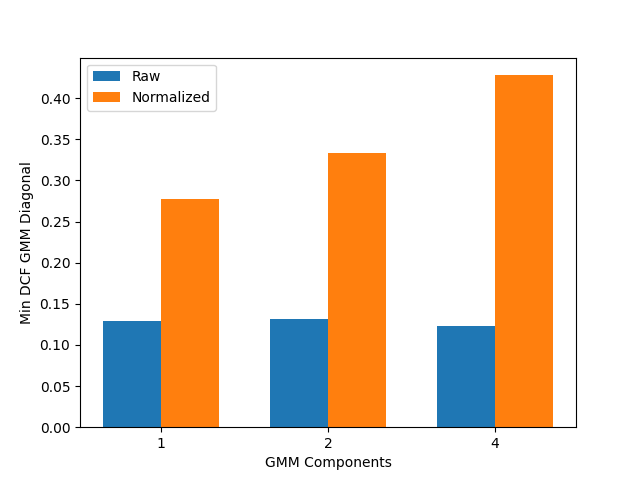
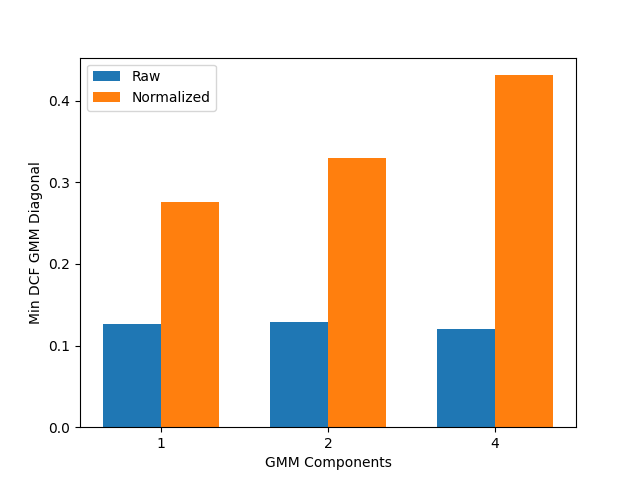
Commit

diff --git a/models/SVM.py b/models/SVM.py
@@ -330,8 +330,8 @@ class SVMPoly(object):
                         if(pi_tilde == 0.1):
                             normalized01.append(minDCF)
 
-        norm_plot_file = f"data/Plots/SVMLinear_{Best_K}_{Best_d}_{Best_c}_Norm.png"
-        raw_plot_file = f"data/Plots/SVMLinear_{Best_K}_{Best_d}_{Best_c}_Raw.png"
+        norm_plot_file = f"data/Plots/SVMPoly_{Best_K}_{Best_d}_{Best_c}_Norm.png"
+        raw_plot_file = f"data/Plots/SVMPoly_{Best_K}_{Best_d}_{Best_c}_Raw.png"
                             
         plt.plotTwoDCFs(self.C_Set, raw05, raw01, "C", "Raw", raw_plot_file, flag=flag)
         plt.plotTwoDCFs(self.C_Set, normalized05, normalized01, "C", "Normalized", norm_plot_file, flag=flag)
@@ -538,8 +538,8 @@ class SVMRBF(object):
                         if(gamma == self.gamma_Set[2]):
                             normalized_gamma_2.append(minDCF)
 
-        norm_plot_file = f"data/Plots/SVMLinear_{Best_K}_{Best_C}_Norm.png"
-        raw_plot_file = f"data/Plots/SVMLinear_{Best_K}_{Best_C}_Raw.png"
+        norm_plot_file = f"data/Plots/SVMRBF_{Best_K}_Norm.png"
+        raw_plot_file = f"data/Plots/SVMRBF_{Best_K}_Raw.png"
 
         plt.plotThreeDCFsRBF(self.C_Set, raw_gamma_0, raw_gamma_1, raw_gamma_2, "C", "Raw", raw_plot_file, flag=flag)
         plt.plotThreeDCFsRBF(self.C_Set, normalized_gamma_0, normalized_gamma_1, normalized_gamma_2, "C", "Normalized", norm_plot_file, flag=flag)

diff --git a/main.py b/main.py
@@ -64,27 +64,31 @@ svm_rbf = SVMRBF(D, L, [1], [1], [1e-1])
 #svm_rbf.plot()
 
 
-n_Set = [1,2,4,8,16]
-gmm_full = GMMFull(D, L, [1, 2, 4], flag=True)
+n_Set = [1,2,4]
+gmm_full = GMMFull(D, L, n_Set, flag=True)
 #gmm_full.train()
 #gmm_full.plot(False)
 
-gmm_diagonal = GMMDiagonal(D, L, [1, 2, 4], flag=True)
+gmm_diagonal = GMMDiagonal(D, L, n_Set, flag=True)
 #gmm_diagonal.train()
 #gmm_diagonal.plot(False)
 
-gmm_tied = GMMTied(D, L, [1, 2, 4], flag=True)
+gmm_tied = GMMTied(D, L, n_Set, flag=True)
 #gmm_tied.train()
 #gmm_tied.plot(False)
 
-thread_full = threading.Thread(target=gmm_full.train)
-thread_diagonal = threading.Thread(target=gmm_diagonal.train)
-thread_tied = threading.Thread(target=gmm_tied.train)
+#thread_full = threading.Thread(target=gmm_full.train)
+#thread_diagonal = threading.Thread(target=gmm_diagonal.train)
+#thread_tied = threading.Thread(target=gmm_tied.train)
 
-thread_full.start()
-thread_diagonal.start()
-thread_tied.start()
+#thread_full.start()
+#thread_diagonal.start()
+#thread_tied.start()
 
-thread_full.join()
-thread_diagonal.join()
-thread_tied.join()
+#thread_full.join()
+#thread_diagonal.join()
+#thread_tied.join()
+
+gmm_full.plot(False)
+gmm_diagonal.plot(False)
+gmm_tied.plot(False)
